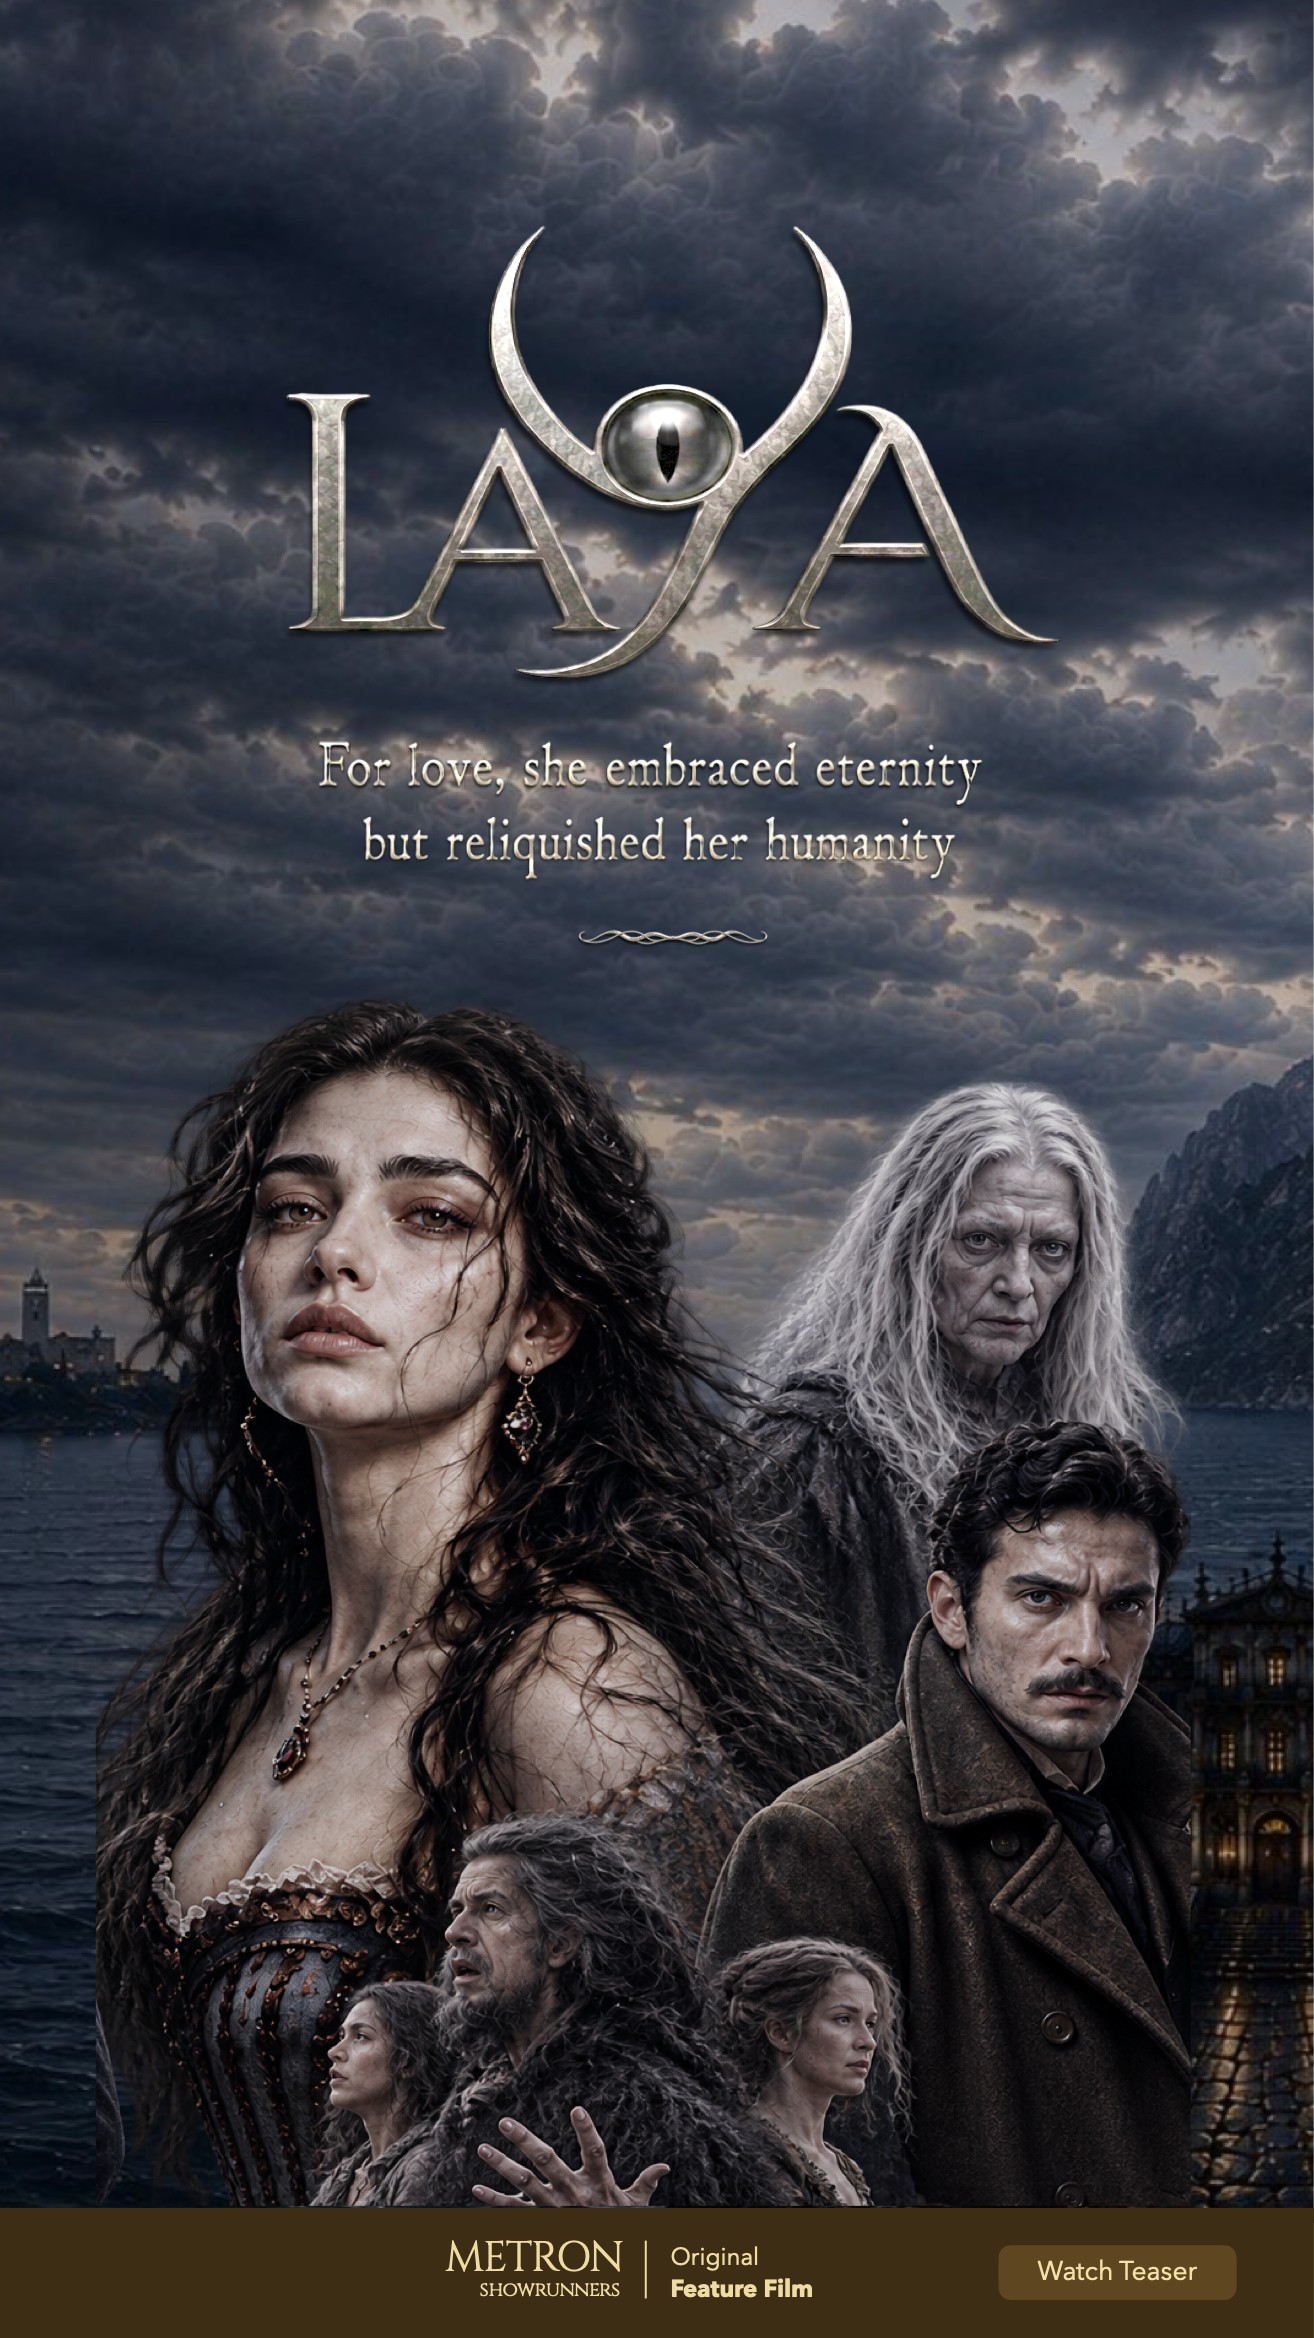
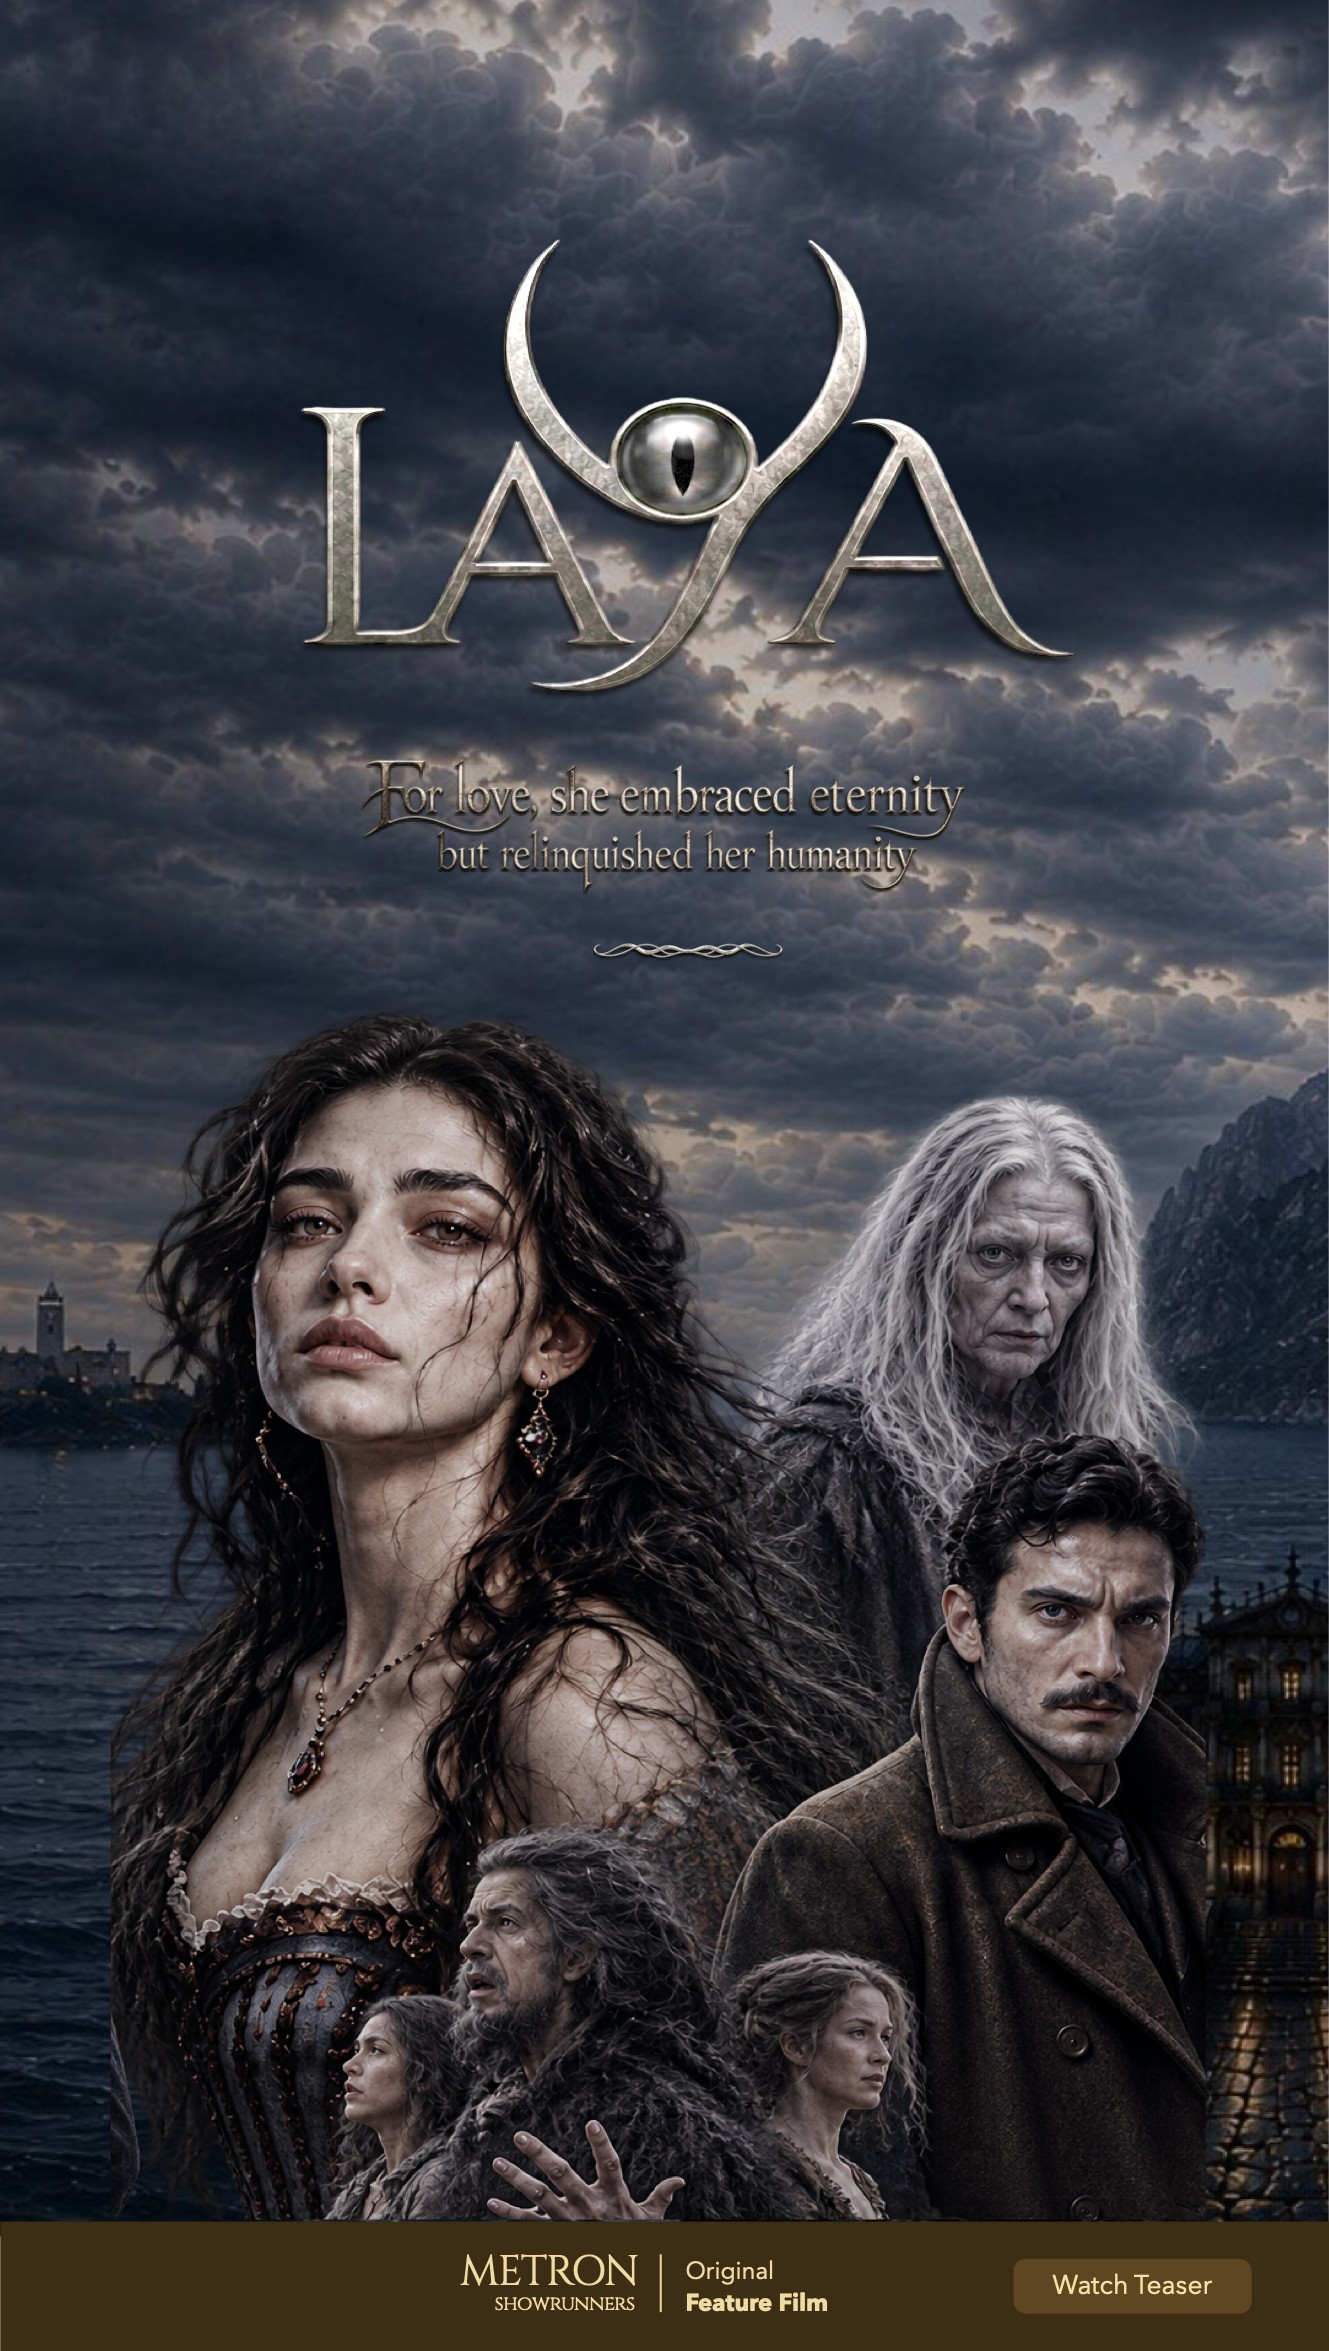
Arte corrigida da Laya
A versão anterior trazia "but reliquished her humanity" dentro da imagem.
Esta corrige para "relinquished".

As dimensões mudaram de novo — 3074x2305 em landscape e 1329x2351 em
portrait — então a barra do rodapé foi remedida: 90.67% e 94.51%, contra os
90.46% e 94.44% da anterior. Agora a Laya tem medida própria nas duas
orientações; antes só o portrait tinha, porque o landscape caía dentro de
meio pixel do padrão e este não cai.

Cache-buster para v=4.

diff --git a/tests/seed.spec.ts b/tests/seed.spec.ts
@@ -52,8 +52,8 @@ const SLIDES_COM_LINK = [
     slide: 1,
     href: 'https://youtu.be/bXL5xmmQPys',
     aria: /Laya teaser/,
-    // A arte da Laya tem a barra em 94.44%, nao nos 95.02% da do Hybris.
-    footerTopPct: 94.44,
+    // A arte da Laya tem a barra em 94.51%, nao nos 95.02% da do Hybris.
+    footerTopPct: 94.51,
   },
   {
     nome: 'Not Even Death',
